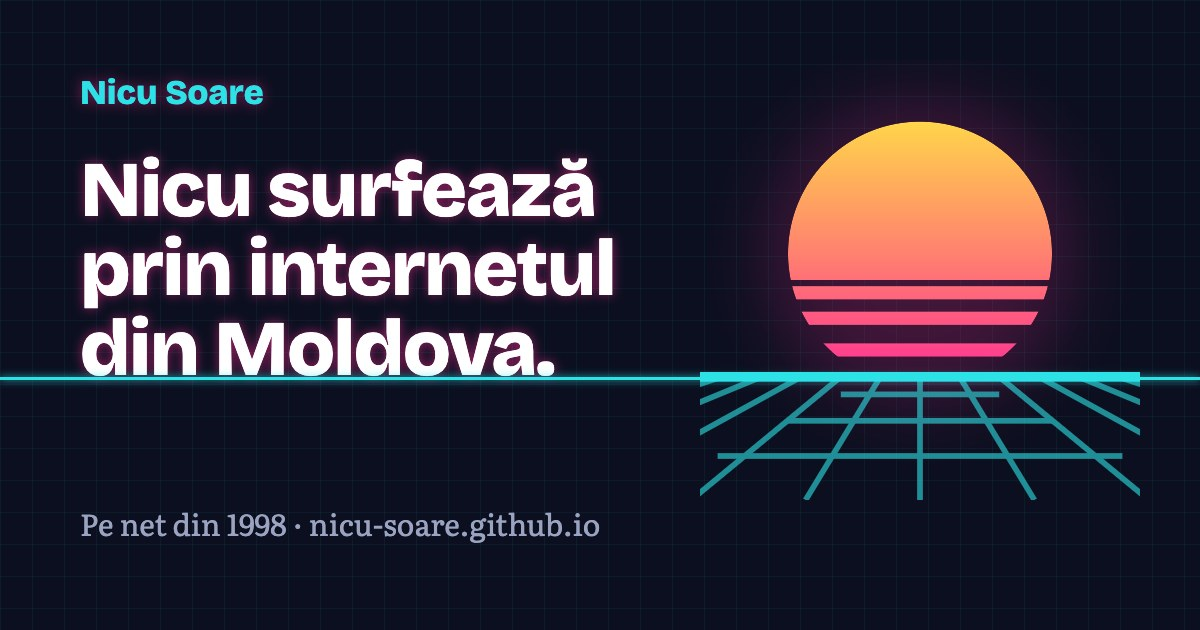
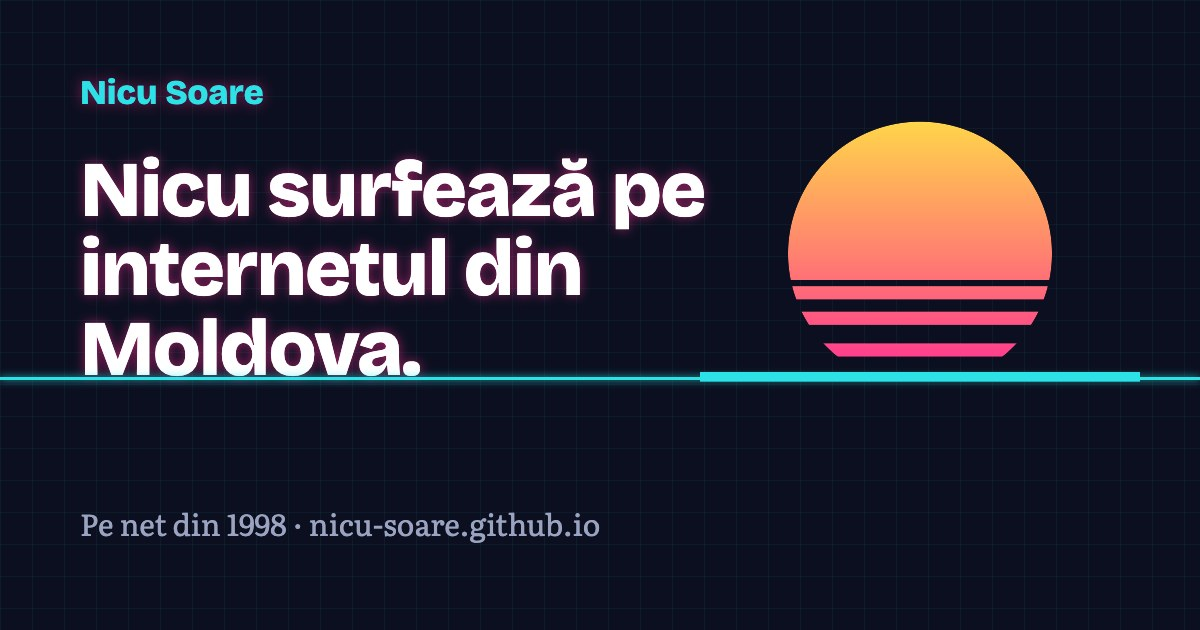
Slogan: „pe internetul din Moldova” în loc de „prin”; imagine OG regenerată

Changed region(s): [[0.5858, 0.1508, 0.9558, 0.7841], [0.0617, 0.2714, 0.6167, 0.6032]]

diff --git a/src/i18n/lang/ro.ts b/src/i18n/lang/ro.ts
@@ -32,7 +32,7 @@ export default {
     featured: "Recomandate",
     recentPosts: "Articole recente",
     allPosts: "Toate articolele",
-    tagline: "Nicu surfează prin internetul din Moldova.",
+    tagline: "Nicu surfează pe internetul din Moldova.",
     intro:
       "Nicu este activ pe internetul Moldovenesc din jurul anului 1998 și a văzut evoluția acestuia, care a trecut prin multe transformări. Este inginer software și lucrează ca tech lead.",
     seeAlso: "Vezi și",
